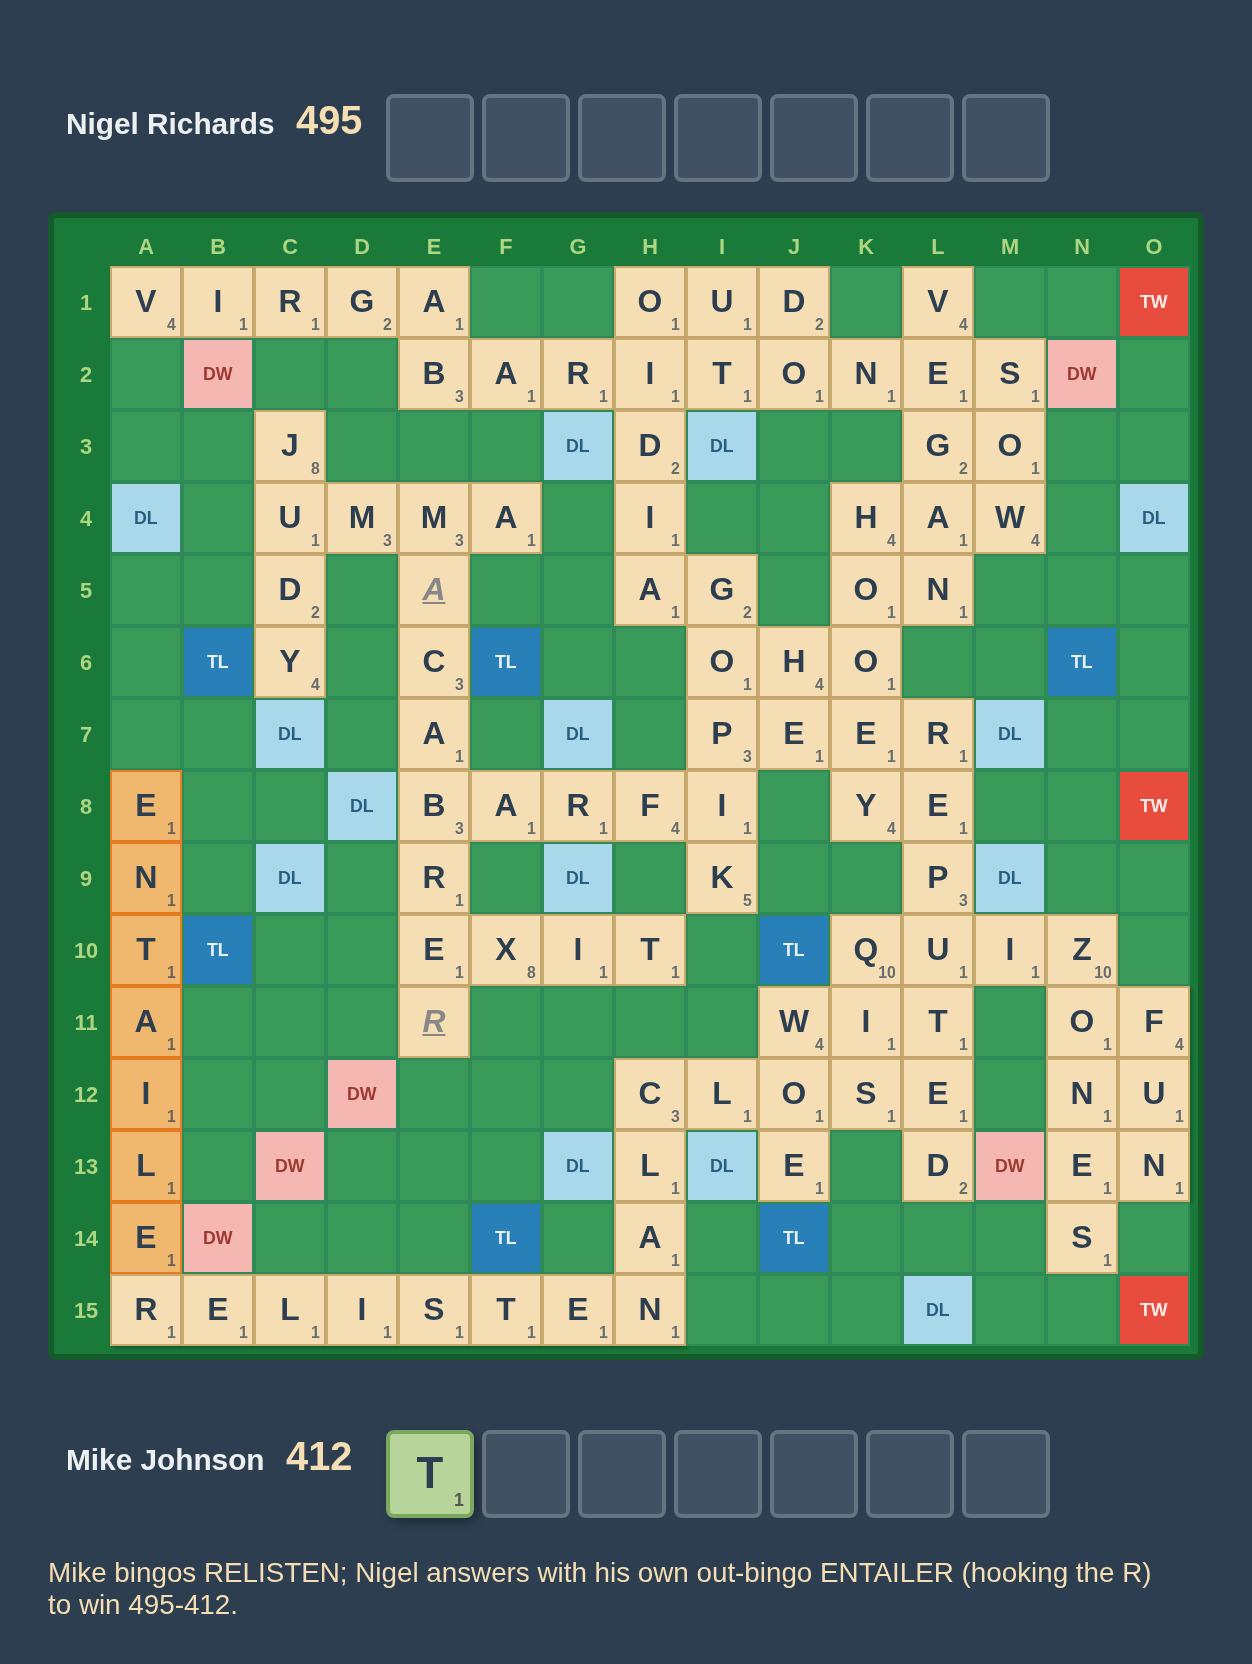
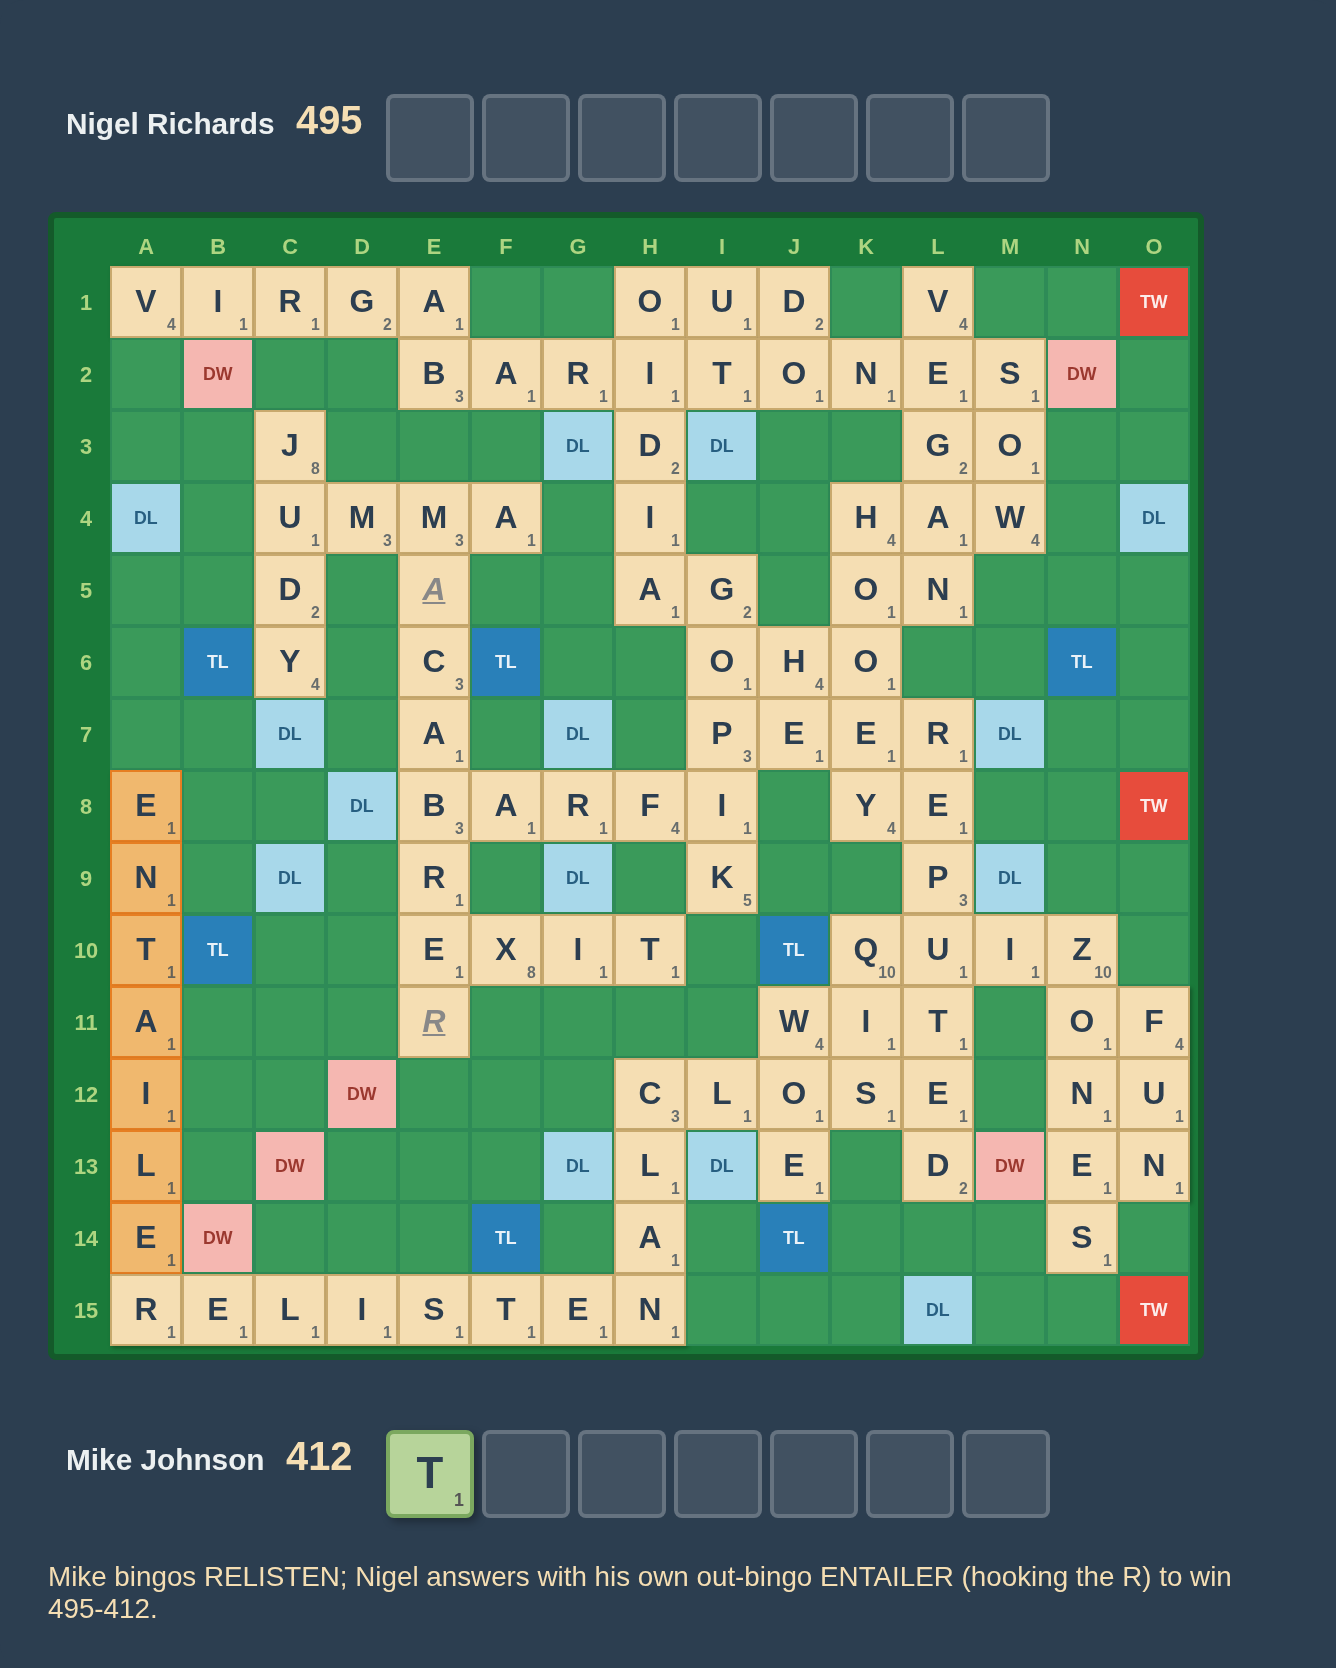
docs(analysis): ALLEE hypothetical board, unseen panels, credits
Adds the engine-verified ALLEE line (variant GCG: ALLEE + RULIEST leaves Nigel
CEINNTT with only A,D unseen and no triple-scoring CLOSE hook) as a rendered
board, the Nigel-POV unseen-tiles strip on the position figures, and the
commentators' names + the video URL.

diff --git a/docs/analysis/richards-johnson-exchange/README.md b/docs/analysis/richards-johnson-exchange/README.md
@@ -13,11 +13,10 @@ The board images below are rendered by this repo's own board renderer (the
 manual GCG tool's `--dump-gcg` state dump feeding the `?tool=render` harness —
 see [Reproducing the images](#reproducing-the-images)).
 
-Credit for the analysis goes to Will Anderson and his fellow commentators in
-his YouTube breakdown of this game ([search: "Will Anderson Nigel Richards
-exchange"](https://www.youtube.com/results?search_query=will+anderson+nigel+richards+exchange));
-the game itself is [annotated on
-cross-tables](https://www.cross-tables.com/annotated.php?u=55430).
+Credit for the analysis goes to Will Anderson and his fellow commentators
+Morris Greenberg, Rafi Stern, and Josh Sokol in [his YouTube breakdown of this
+game](https://www.youtube.com/watch?v=p94DqHv3xk8); the game itself is
+[annotated on cross-tables](https://www.cross-tables.com/annotated.php?u=55430).
 
 ## The position
 
@@ -127,11 +126,20 @@ with his junk EELLT-based rack, plays something small → Nigel goes out with a
 Even when Nigel draws the C after ALLEE, it doesn't guarantee the game.
 Drawing the C is only about **5/7** after ALLEE (and that already assumes the C
 is in the bag), and even with it Nigel doesn't always have the high-scoring
-CLOSE hook. In one line Mike bingos in reply, Nigel is left with **CEINNTT** —
-which cannot reach the triple with the CLOSE hook — and Mike's leftover **AD**
-gives him unblockable outplays and the win. This is only an *illustration* that
-the C is not a guarantee, not the main argument; the main argument is the
-timing above.
+CLOSE hook.
+
+![The ALLEE line: Nigel stuck with CEINNTT](images/allee-line.png)
+
+The board above is one such line: Nigel plays **ALLEE** (to 395), Mike replies
+with the bingo **RULIEST** (to 396), and Nigel is left holding **CEINNTT** with
+only **A, D** unseen. He has a C — but with these letters his best CLOSE hook is
+**ENCLOSE for ~12**, nowhere near the triple he needs (the engine's whole move
+list for CEINNTT here tops out at 24). Mike then goes out with his leftover
+**A, D** and wins. (The unseen count reducing to just **A, D** is exactly the
+timing trap: ALLEE left only two tiles in the bag.)
+
+This is only an *illustration* that the C is not a guarantee, not the main
+argument; the main argument is the timing above.
 
 ## The YE\_ and double-S danger
 
@@ -169,15 +177,25 @@ The board images are generated entirely by this repo:
 
 ```bash
 cd docs/analysis/richards-johnson-exchange
+BIN=../../../target/engine/manual_gcg_tool
 
-# 1. Dump per-ply front-end state JSON straight from the GCG (no server):
-../../../target/engine/manual_gcg_tool --dump-gcg game.gcg \
-  --dump-plies 21,24,26 --dump-out states
+# 1. Dump per-ply front-end state JSON straight from the GCG (no server).
+#    The actual game:
+$BIN --dump-gcg game.gcg --dump-plies 21,24,26 --dump-out states
+#    The ALLEE hypothetical (a variant GCG branched at move 22):
+$BIN --dump-gcg variants/allee.gcg --dump-plies 23 --dump-out states/allee
 
 # 2. Rasterize the states to PNGs via the ?tool=render harness (headless Chromium):
 node ../../../web/scripts/render_boards.mjs render.json
 ```
 
-The manifest (`render.json`) names each state, its output PNG, an optional
-`caption`, and an optional `hideRacks` (e.g. `[0]` blanks Mike's rack to unseen
-"?" tiles for the Nigel-POV figure).
+The manifest (`render.json`) names each state, its output PNG, and optional
+`caption`, `hideRacks` (e.g. `[0]` blanks Mike's rack to unseen "?" tiles), and
+`unseenFrom` (e.g. `1` adds the Nigel-POV unseen-tiles strip). The variant GCGs
+in `variants/` were built with the tool's move-lister to get exact, legal
+coordinates:
+
+```bash
+# e.g. find where ALLEE plays for Nigel's rack at move 22:
+$BIN --dump-gcg game.gcg --list-ply 21 --list-rack AEELLNT   # -> "B6 ALLEE 16"
+```
